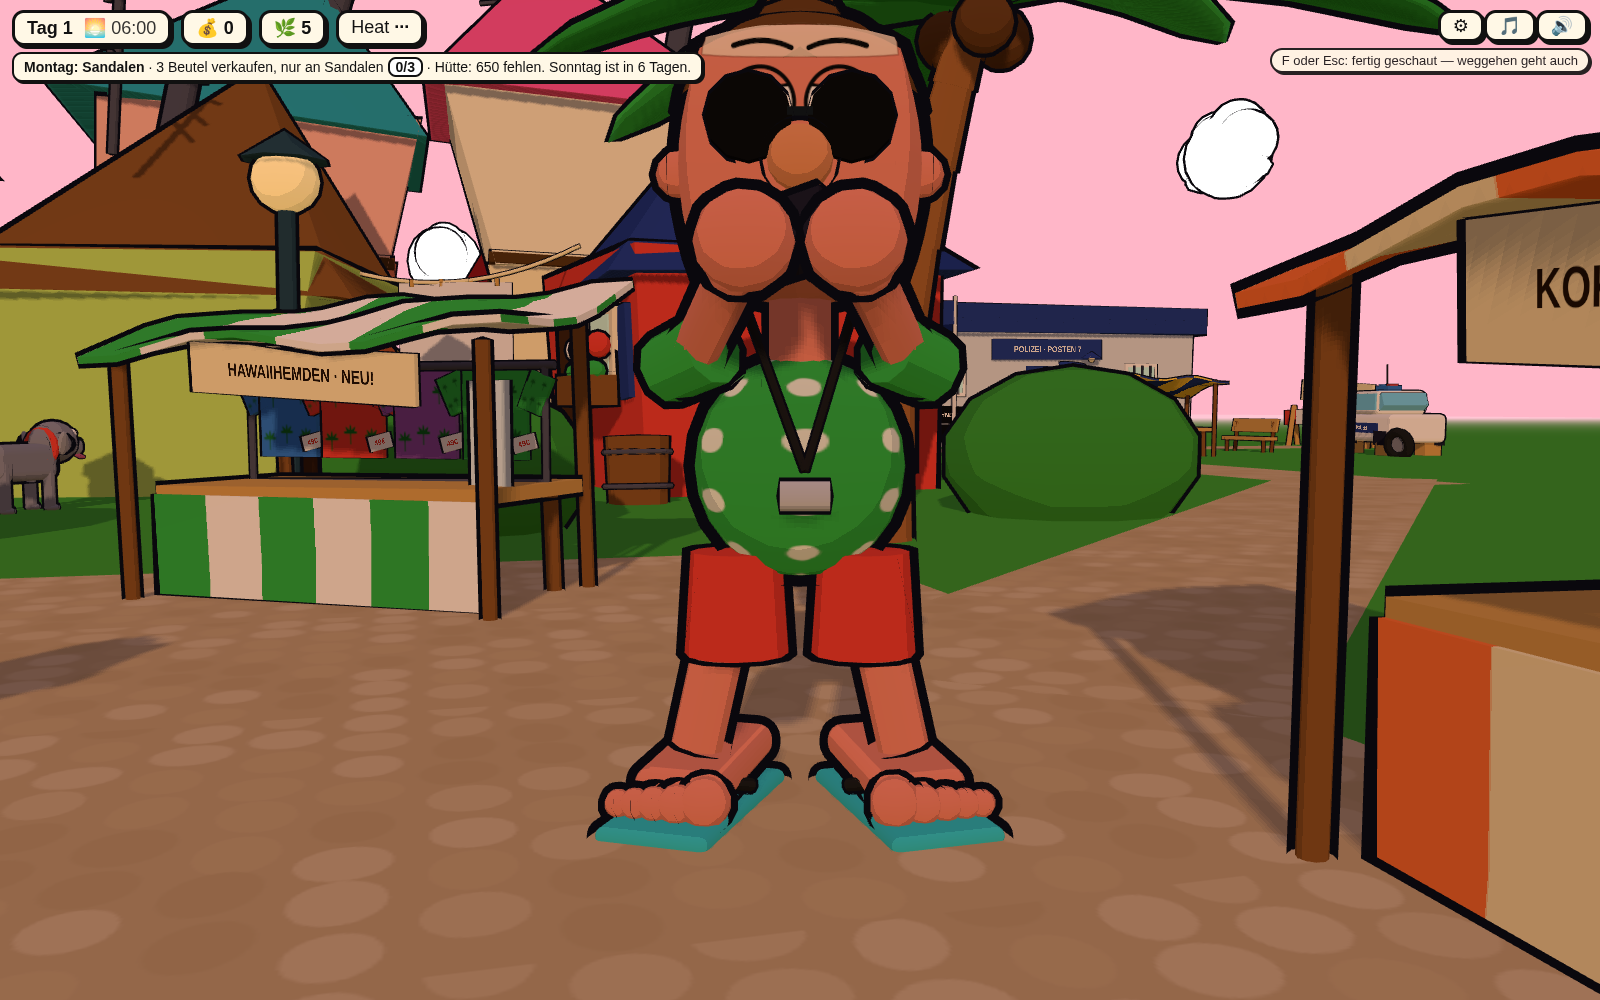
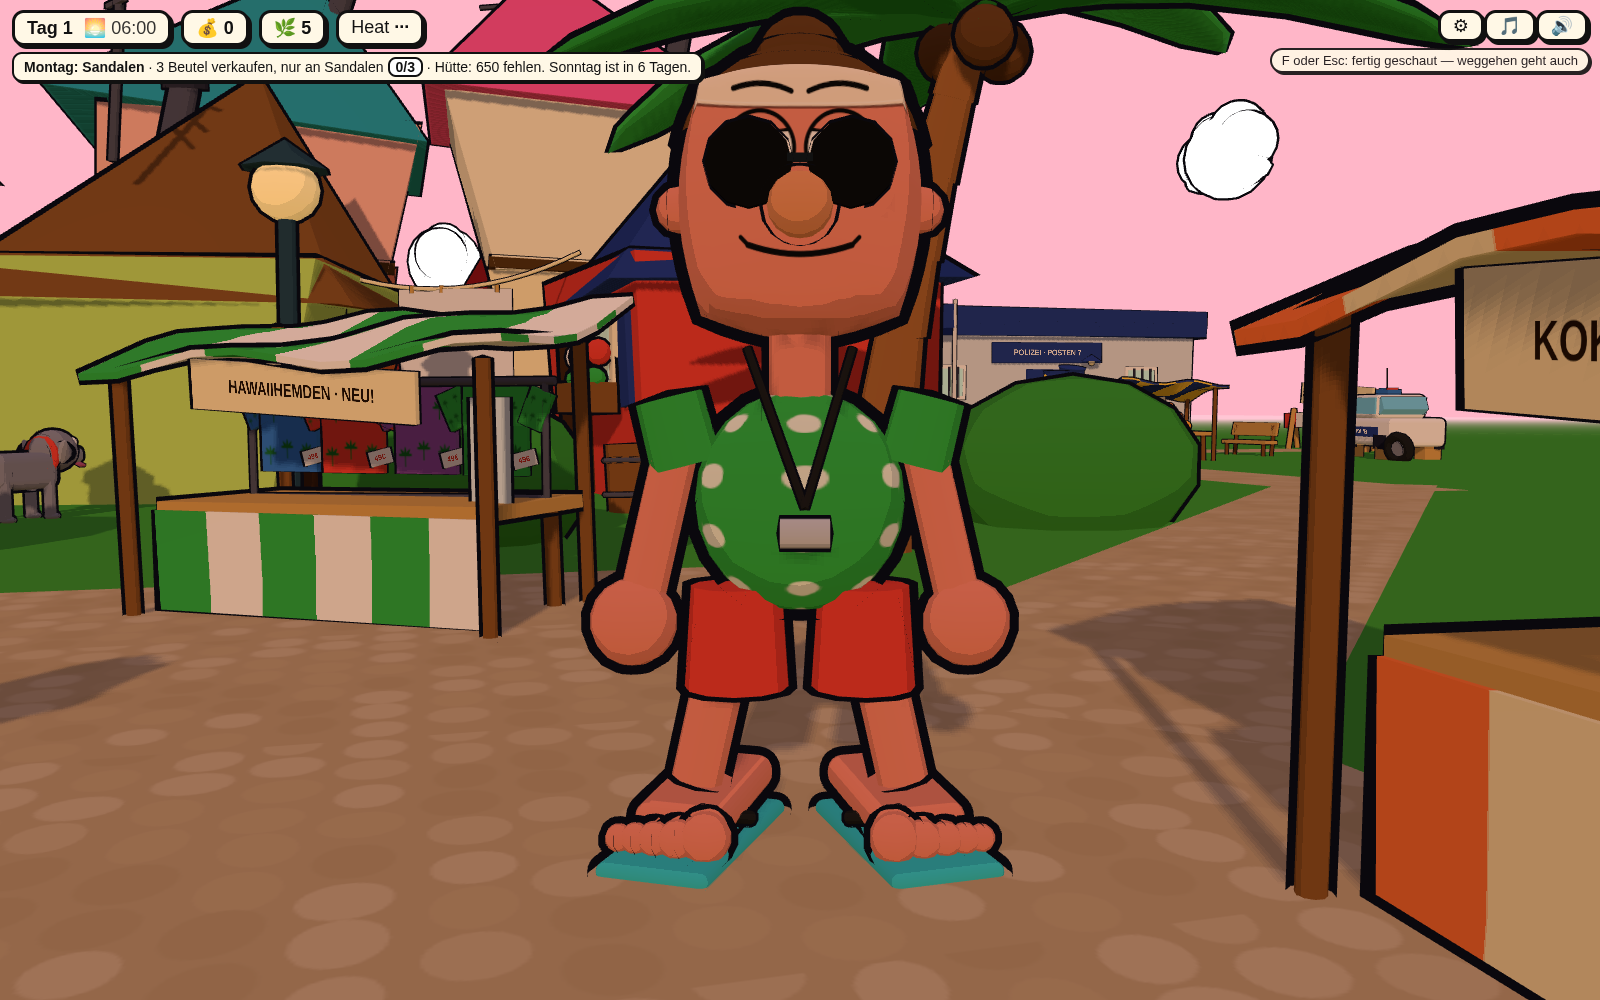
Runde 10: neue Kunden, Tages-Ereignisse, neuer Zivi-Tell

diff --git a/spiel/js/main.js b/spiel/js/main.js
@@ -278,7 +278,7 @@ function applyKunde(k) {
   const parts = k.group.userData.parts;
   if (!k.npc.moving) {
     // steht am Platz: Tätigkeits-Pose aus figures.js (einmal gesetzt), nur der Kopf folgt dem Spieler
-    if (!k.group.userData.pose) {
+    if (!k.group.userData.pose && !k.group.userData.inspectPose) {
       const { offsetY } = figurePose(k.group, POSE_NAME(k.anchor));
       holdPose(k.group, POSE_NAME(k.anchor)); // Surfbrett in den Händen oder im Sand
       k.group.userData.poseOffset = offsetY;
@@ -937,13 +937,24 @@ function morgen() {
 // Kamera-Abstand und Blickhöhe wachsen mit der Statur des Kunden (Figuren sind ±15 % groß)
 function inspectOpts(k) {
   const sc = k.group.scale.x || 1;
-  return { dist: 5.4 * sc, height: 1.8 * sc, targetY: 1.4 * sc };
+  return { dist: 5.4 * sc, height: 1.95 * sc, targetY: 1.55 * sc }; // Blick etwas höher: Stirn (Mützen-Streifen) bleibt im Bild
+}
+// Beim Hinschauen sollen Hände nicht vor dem Gesicht sein (Foto, Handy, Hand über den Augen): solange neutral stehen, danach zurück in die Tätigkeit
+const HAENDE_VORM_GESICHT = ['foto', 'handy', 'meer', 'winken'];
+function inspectPoseAn(k) {
+  if (!k || !HAENDE_VORM_GESICHT.includes(k.group.userData.pose)) return;
+  figurePose(k.group, 'stehen'); holdPose(k.group, 'stehen');
+  k.group.userData.inspectPose = true; k.group.userData.poseOffset = 0; k.group.position.y = 0;
+}
+function inspectPoseAus(k) {
+  if (!k?.group.userData.inspectPose) return;
+  k.group.userData.inspectPose = false; k.group.userData.pose = null; // applyKunde setzt die Tätigkeits-Pose wieder
 }
 function toggleInspect() {
   if (mode === 'inspect') endInspect();
-  else if (nearK) { talking = nearK; mode = 'inspect'; markHint('look'); sfx('look'); showInspectHint(); if (nearK.def.zivi) bark(nearK, 'zivi_verdaechtig', 3.5); }
+  else if (nearK) { talking = nearK; mode = 'inspect'; inspectPoseAn(nearK); markHint('look'); sfx('look'); showInspectHint(); if (nearK.def.zivi) bark(nearK, 'zivi_verdaechtig', 3.5); }
 }
-function endInspect() { mode = 'free'; markHint('end'); ui.showPrompt(null); stopBabble(); tutorialFire('nach_hinschauen'); }
+function endInspect() { mode = 'free'; inspectPoseAus(talking); markHint('end'); ui.showPrompt(null); stopBabble(); tutorialFire('nach_hinschauen'); }
 // Inspect-Ansicht bleibt frei: Beenden-Hinweis als kleine Pille am Rand, groß nur beim ersten Mal
 function showInspectHint() {
   if (!hintSeen('end')) ui.showPrompt(TOUCH ? 'Nochmal Schauen oder weggehen: fertig' : 'F oder Esc: fertig geschaut — weggehen geht auch', { small: true });
@@ -1395,6 +1406,7 @@ function setupScene() {
   k.look = 0;
   applyKunde(k);
   talking = k;
+  if (SCENE === 'inspect') inspectPoseAn(k);
   if (SCENE === 'dialog') {
     dialog = advanceDialog(startDialog(k.def, game, 0, texte), texte);
     selected = 0;

diff --git a/spiel/js/faces.js b/spiel/js/faces.js
@@ -396,10 +396,13 @@ function paint(kind, mood, o) {
   const lidColor = K.lid ?? skin;
 
   const [c, ctx] = makeCanvas();
-  if (o.stirnstreifen) { // blasser Streifen auf der Stirn, wo sonst die Dienstmütze sitzt (Zivi-Tell)
-    ctx.fillStyle = 'rgba(255, 236, 214, 0.85)';
-    ctx.beginPath(); ctx.moveTo(130, 70); ctx.quadraticCurveTo(512, 20, 894, 70); ctx.lineTo(884, 185); ctx.quadraticCurveTo(512, 150, 140, 185); ctx.closePath(); ctx.fill();
-    ctx.strokeStyle = 'rgba(120, 60, 40, 0.35)'; ctx.lineWidth = 5; ctx.stroke();
+  if (o.stirnstreifen) { // blasser Streifen über die ganze Stirn wie ein Mützenrand, wo sonst die Dienstmütze sitzt (Zivi-Tell):
+    // deutlich heller als die Haut, klare Kante mit dunklem Rand, unten bis knapp über die Brauen (bleibt auch bei angeschnittener Stirn im Bild)
+    const band = () => { ctx.beginPath(); ctx.moveTo(60, 40); ctx.quadraticCurveTo(512, -10, 964, 40); ctx.lineTo(948, 215); ctx.quadraticCurveTo(512, 165, 76, 215); ctx.closePath(); };
+    ctx.fillStyle = '#fff0dc'; band(); ctx.fill();
+    ctx.strokeStyle = 'rgba(90, 40, 30, 0.7)'; ctx.lineWidth = 9; ctx.lineJoin = 'round'; band(); ctx.stroke();
+    ctx.strokeStyle = 'rgba(255,255,255,0.6)'; ctx.lineWidth = 4; // heller Saum innen, damit die Kante auch gegen hellen Sonnenbrand steht
+    ctx.beginPath(); ctx.moveTo(90, 200); ctx.quadraticCurveTo(512, 152, 934, 200); ctx.stroke();
   }
   if (K.blush) {
     ctx.fillStyle = 'rgba(255, 110, 120, 0.55)';
